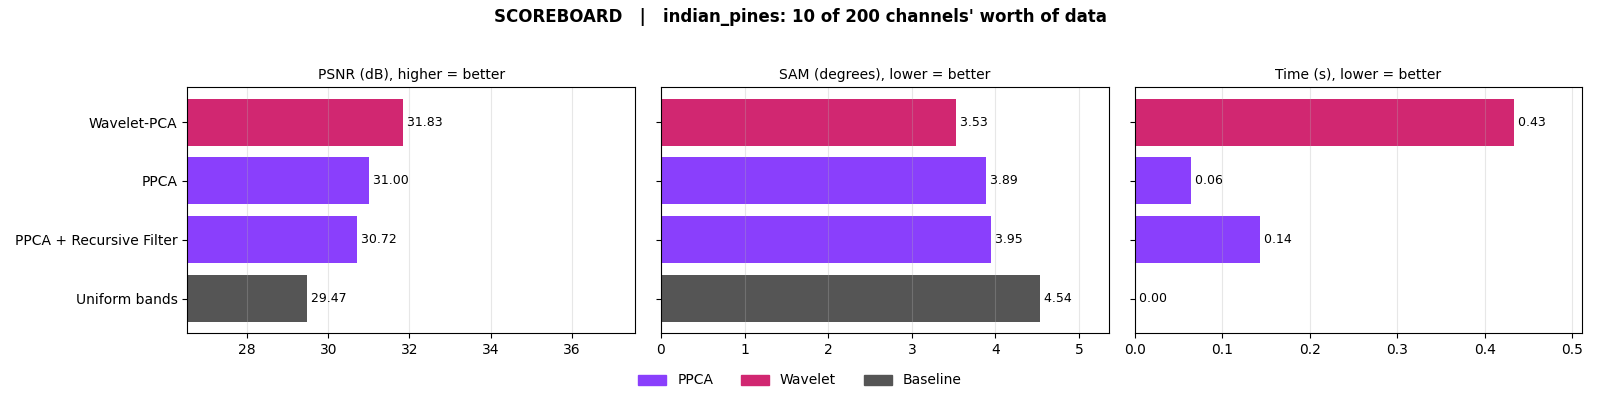
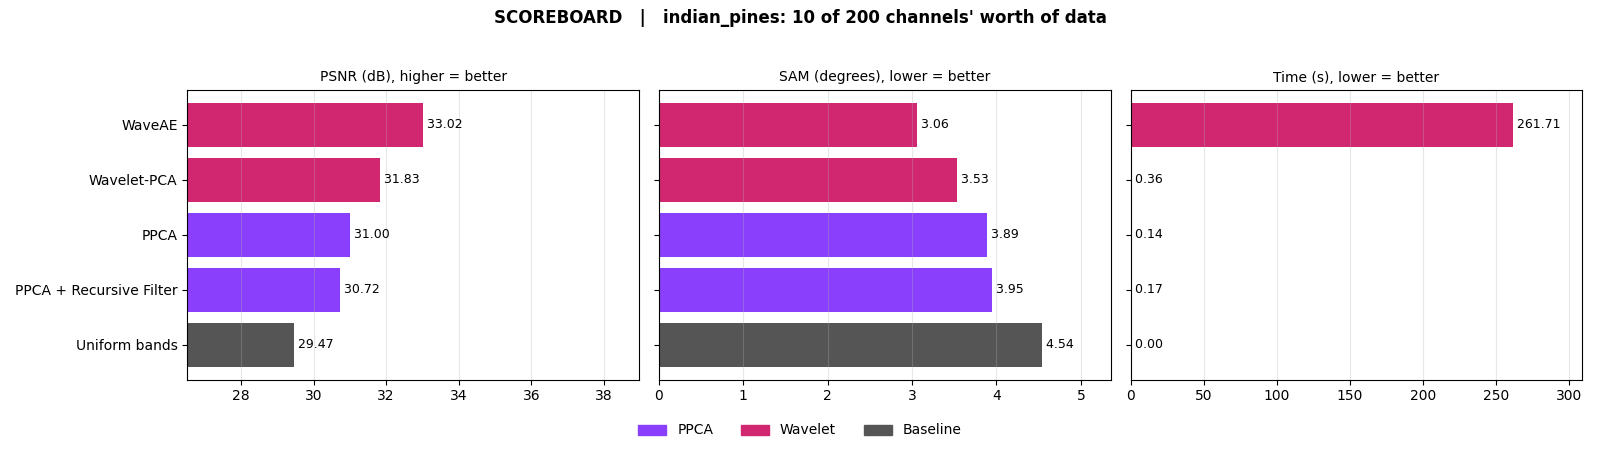
SSIM scores added

diff --git a/Abhishek/universal_pipeline.py b/Abhishek/universal_pipeline.py
@@ -36,6 +36,7 @@ import numpy as np
 import pandas as pd
 from matplotlib.colors import ListedColormap
 from scipy.io import loadmat
+from scipy.ndimage import uniform_filter
 from sklearn.cluster import KMeans, MiniBatchKMeans
 from sklearn.metrics import adjusted_rand_score, cohen_kappa_score, normalized_mutual_info_score
 from sklearn.svm import SVC
@@ -263,13 +264,45 @@ def sam_deg(a, b):
     return float(np.degrees(np.arccos(np.clip((a * b).sum(1) / den, -1, 1))).mean())
 
 
-def recon_metrics(X, Xs, recon_s, m, rng_val):
-    """variance explained (standardised), RMSE/PSNR in original units, SAM."""
+def ssim_cube(X, rec, hw, data_range, mask=None, win=7):
+    """Structural similarity (SSIM) between original X and rebuilt rec, both (n_pixels, C) tables, averaged over all
+    channels. Higher = better, 1 = identical. Same definition as skimage.metrics.structural_similarity (7 x 7 window,
+    K1 = 0.01, K2 = 0.03). data_range = the peak value, the same number PSNR uses (rng_val here, 1 after 0-1 scaling).
+    SSIM compares small windows of the picture, so the tables are put back into (H, W, C) images first.
+    mask = optional array of pixel indices: only those pixels are averaged (e.g. the test pixels)."""
+    h, w = hw
+    n_ch = X.shape[1]
+    a, b = X.reshape(h, w, n_ch), rec.reshape(h, w, n_ch)
+    cov_norm = win * win / (win * win - 1)                 # sample covariance, as in skimage
+    c1, c2 = (0.01 * data_range) ** 2, (0.03 * data_range) ** 2
+    keep = np.ones(h * w, bool)
+    if mask is not None:
+        keep[:] = False
+        keep[mask] = True
+    total, count = 0.0, 0
+    for s in range(0, n_ch, 32):                           # 32 channels at a time keeps memory small
+        x, y = a[:, :, s:s + 32].astype(np.float64), b[:, :, s:s + 32].astype(np.float64)
+        size = (win, win, 1)
+        ux, uy = uniform_filter(x, size=size), uniform_filter(y, size=size)
+        vx = cov_norm * (uniform_filter(x * x, size=size) - ux * ux)
+        vy = cov_norm * (uniform_filter(y * y, size=size) - uy * uy)
+        vxy = cov_norm * (uniform_filter(x * y, size=size) - ux * uy)
+        smap = ((2 * ux * uy + c1) * (2 * vxy + c2) / ((ux ** 2 + uy ** 2 + c1) * (vx + vy + c2))).reshape(h * w, -1)
+        total += smap[keep].sum()
+        count += smap[keep].size
+    return float(total / count)
+
+
+def recon_metrics(X, Xs, recon_s, m, rng_val, hw=None):
+    """variance explained (standardised), RMSE/PSNR in original units, SAM. Give hw = (H, W) to also get SSIM."""
     var_exp = 1 - float(((Xs - recon_s) ** 2).sum() / (Xs ** 2).sum())
     rec = recon_s * m["sd"] + m["mu"]
     rmse = float(np.sqrt(np.mean((X - rec) ** 2)))
-    return {"var_explained": var_exp, "rmse": rmse, "nrmse_pct": rmse / rng_val * 100,
-            "psnr_db": 20 * np.log10(rng_val / max(rmse, 1e-12)), "sam_deg": sam_deg(X, rec)}
+    out = {"var_explained": var_exp, "rmse": rmse, "nrmse_pct": rmse / rng_val * 100,
+           "psnr_db": 20 * np.log10(rng_val / max(rmse, 1e-12)), "sam_deg": sam_deg(X, rec)}
+    if hw is not None:
+        out["ssim"] = ssim_cube(X, rec, hw, rng_val)
+    return out
 
 
 def cluster_labels(F, n_clusters, seed=0):
@@ -466,13 +499,13 @@ def run(a, which):
     rows, kept = [], {}
 
     def evaluate(method, k, feats, recon_s):
-        r = {"method": method, "k": k, **recon_metrics(X, Xs, recon_s, m, rng_val)}
+        r = {"method": method, "k": k, **recon_metrics(X, Xs, recon_s, m, rng_val, (H, W))}
         cl = cluster_labels(feats, a.n_clusters)
         r["ARI"], r["NMI"] = adjusted_rand_score(ref_clusters, cl), normalized_mutual_info_score(ref_clusters, cl)
         if y is not None:
             r.update(classify_multi(feats, y, splits)[0])
         rows.append(r)
-        print(f"  {method:16s} k={k:<3d} var {r['var_explained'] * 100:6.2f}%  RMSE {r['rmse']:.4g}  SAM {r['sam_deg']:.2f}  "
+        print(f"  {method:16s} k={k:<3d} var {r['var_explained'] * 100:6.2f}%  RMSE {r['rmse']:.4g}  SAM {r['sam_deg']:.2f}  SSIM {r['ssim']:.4f}  "
               + (f"OA {r['OA']:.1f}%" if y is not None else f"ARI {r['ARI']:.3f}"))
 
     print("\n[compare] evaluating methods (this is the slow part)...")
@@ -480,7 +513,7 @@ def run(a, which):
     if y is not None:                                            # reference: all bands
         met, ref_recalls = classify_multi(Xs, y, splits)
         ref = {"method": "Full bands", "k": C, "var_explained": 1.0, "rmse": 0.0, "nrmse_pct": 0.0,
-               "psnr_db": np.inf, "sam_deg": 0.0, "ARI": 1.0, "NMI": 1.0, **met}
+               "psnr_db": np.inf, "sam_deg": 0.0, "ssim": 1.0, "ARI": 1.0, "NMI": 1.0, **met}
         rows.append(ref)
         print(f"  {'Full bands':16s} k={C:<3d} OA {ref['OA']:.1f}%  (upper reference)")
 
@@ -638,7 +671,7 @@ def rf_sweep(a, out, kept, m, X, Xs, rng_val, H, W, y, splits, ref_clusters):
     for ss, sc in combos:
         Zs = Z if ss == 0 else recursive_filter(Z, ss, sc, a.iters)
         flat = Zs.reshape(-1, k)
-        r = {"sigma_spatial": ss, "sigma_color": sc, **recon_metrics(X, Xs, ppca_reconstruct(m, flat, back, k), m, rng_val)}
+        r = {"sigma_spatial": ss, "sigma_color": sc, **recon_metrics(X, Xs, ppca_reconstruct(m, flat, back, k), m, rng_val, (H, W))}
         r["noise_reduced_pct"], r["edge_retention"] = spatial_stats(Z, Zs) if ss else (0.0, 1.0)
         r["ARI"] = adjusted_rand_score(ref_clusters, cluster_labels(flat * back, a.n_clusters))
         if y is not None:

diff --git a/Abhishek/wave_ae.py b/Abhishek/wave_ae.py
@@ -55,7 +55,7 @@ from scipy.io import loadmat
 
 HERE = Path(__file__).resolve().parent
 sys.path.insert(0, str(HERE))
-from universal_pipeline import build_splits, classify_multi, get_labels, sam_deg    # read-only helpers
+from universal_pipeline import build_splits, classify_multi, get_labels, sam_deg, ssim_cube    # read-only helpers
 
 RAICHUR_BANDS = ["B01", "B02", "B03", "B04", "B05", "B06", "B07", "B08", "B8A", "B09", "B11", "B12"]
 
@@ -227,14 +227,18 @@ def pca_fit(X):
 # ======================================================================
 # 5. metrics
 # ======================================================================
-def recon_metrics(X, Xs, rec_s, mu, sd, rng_val):
-    """Rebuild quality in standardised space (variance explained) and original units (RMSE, PSNR, SAM)."""
+def recon_metrics(X, Xs, rec_s, mu, sd, rng_val, hw=None):
+    """Rebuild quality in standardised space (variance explained) and original units (RMSE, PSNR, SAM).
+    Give hw = (H, W) to also get SSIM."""
     rec_s = rec_s.reshape(Xs.shape)
     rec = rec_s * sd + mu
     rmse = float(np.sqrt(np.mean((X - rec) ** 2)))
-    return {"var_explained": 1 - float(((Xs - rec_s) ** 2).sum() / ((Xs - Xs.mean(0)) ** 2).sum()), "rmse": rmse,
-            "nrmse_pct": rmse / rng_val * 100, "psnr_db": 20 * np.log10(rng_val / max(rmse, 1e-12)),
-            "sam_deg": sam_deg(X, rec)}
+    out = {"var_explained": 1 - float(((Xs - rec_s) ** 2).sum() / ((Xs - Xs.mean(0)) ** 2).sum()), "rmse": rmse,
+           "nrmse_pct": rmse / rng_val * 100, "psnr_db": 20 * np.log10(rng_val / max(rmse, 1e-12)),
+           "sam_deg": sam_deg(X, rec)}
+    if hw is not None:
+        out["ssim"] = ssim_cube(X, rec, hw, rng_val)
+    return out
 
 
 # ======================================================================
@@ -430,11 +434,11 @@ def main():
         mb = (lat_vals + side_vals) * 4 / 1e6                                 # float32 values, latent + side information
         r = {"method": method, "k_eq": k_eq, "channels_sent": sent, "resolution": res, "compression_x": round(C / k_eq, 1),
              "transmit_MB": round(mb, 3), "effective_compression_x": round(cube_MB / mb, 1),
-             "encoder_macs_per_pixel": int(macs), **recon_metrics(X, Xs, rec_s, mu, sd, rng_val), **(extra or {})}
+             "encoder_macs_per_pixel": int(macs), **recon_metrics(X, Xs, rec_s, mu, sd, rng_val, (H, W)), **(extra or {})}
         if y is not None:
             r.update(classify_multi(feats.reshape(H * W, -1), y, splits)[0])
         rows.append(r)
-        print(f"    {method:34s} var {r['var_explained'] * 100:6.2f}%  NRMSE {r['nrmse_pct']:5.2f}%  SAM {r['sam_deg']:5.2f}  "
+        print(f"    {method:34s} var {r['var_explained'] * 100:6.2f}%  NRMSE {r['nrmse_pct']:5.2f}%  SAM {r['sam_deg']:5.2f}  SSIM {r['ssim']:.4f}  "
               f"eff.compr {r['effective_compression_x']:6.1f}x" + (f"  OA {r['OA']:5.1f}%" if y is not None else ""))
 
     for k_eq in ks:
@@ -503,7 +507,7 @@ def main():
     (out / "report.txt").write_text(f"{header}\n{df.to_string(index=False, float_format=lambda v: f'{v:.4g}')}{caveat}\n", encoding="utf-8")
     print(f"\n[saved] {out}\n  metrics.csv, report.txt, fig1_wavelet_and_latent.png, fig2_reconstruction.png, fig3_metrics_vs_budget.png,"
           f"\n  waveae_latent_k*.npy (the compressed data), waveae_k*.pt (trained weights)")
-    print(df[["method", "k_eq", "channels_sent", "compression_x", "effective_compression_x", "var_explained", "nrmse_pct", "sam_deg",
+    print(df[["method", "k_eq", "channels_sent", "compression_x", "effective_compression_x", "var_explained", "nrmse_pct", "sam_deg", "ssim",
               "encoder_macs_per_pixel"] + (["OA"] if y is not None else [])].round(3).to_string(index=False))
 
 

diff --git a/Abhishek/show_abhishek.py b/Abhishek/show_abhishek.py
@@ -44,7 +44,7 @@ import matplotlib
 _BACKEND = matplotlib.get_backend()   # the window backend; Abhishek's files switch to 'Agg' (no windows) when imported
 import numpy as np
 
-from universal_pipeline import ppca_fit, ppca_reconstruct, ppca_scores       # Abhishek's PPCA
+from universal_pipeline import ppca_fit, ppca_reconstruct, ppca_scores, ssim_cube       # Abhishek's PPCA (+ SSIM)
 from ppca_rf_pipeline import recursive_filter                                  # Abhishek's recursive filter
 
 # ======================================================================
@@ -200,8 +200,9 @@ def add(name, family, rebuilt01, sent, secs, note):
     rebuilt01 = np.clip(rebuilt01.reshape(-1, C), 0, 1)
     R[name] = {"family": family, "rebuilt": rebuilt01, "sent": sent, "time": secs, "note": note,
                "psnr": psnr(p01[test], rebuilt01[test]), "sam": sam_degrees(p01[test], rebuilt01[test]),
+               "ssim": ssim_cube(p01, rebuilt01, (H, W), 1.0, test),
                "error": np.abs(p01 - rebuilt01).mean(axis=1).reshape(H, W)}
-    print(f"  {name:28s} PSNR {R[name]['psnr']:6.2f} dB   SAM {R[name]['sam']:5.2f}°   {secs:6.2f} s")
+    print(f"  {name:28s} PSNR {R[name]['psnr']:6.2f} dB   SSIM {R[name]['ssim']:.4f}   SAM {R[name]['sam']:5.2f}°   {secs:6.2f} s")
 
 
 # --- PPCA family (Abhishek's own functions) ---
@@ -308,10 +309,10 @@ def screen(rows, title, filename, note):
 
 
 def table(title, rows):
-    print(f"\n{title}\n  {'Method':28s} {'PSNR dB':>8s} {'SAM °':>7s} {'Time s':>7s}  Sent")
+    print(f"\n{title}\n  {'Method':28s} {'PSNR dB':>8s} {'SSIM':>7s} {'SAM °':>7s} {'Time s':>7s}  Sent")
     for n in rows:
         r = R[n]
-        print(f"  {n:28s} {r['psnr']:8.2f} {r['sam']:7.2f} {r['time']:7.2f}  {r['note']}")
+        print(f"  {n:28s} {r['psnr']:8.2f} {r['ssim']:7.4f} {r['sam']:7.2f} {r['time']:7.2f}  {r['note']}")
 
 
 by_psnr = lambda ns: sorted(ns, key=lambda n: -R[n]["psnr"])
@@ -359,7 +360,7 @@ if args.only in (None, "final"):
 import csv                                                                            # noqa: E402
 with open(OUT / "scores.csv", "w", newline="") as f:
     w = csv.writer(f)
-    w.writerow(["Method", "Family", "K", "PSNR", "SAM", "Time (s)", "Sent"])
+    w.writerow(["Method", "Family", "K", "PSNR", "SSIM", "SAM", "Time (s)", "Sent"])
     for n in by_psnr(list(R)):
-        w.writerow([n, R[n]["family"], K, f"{R[n]['psnr']:.4f}", f"{R[n]['sam']:.4f}", f"{R[n]['time']:.3f}", R[n]["note"]])
+        w.writerow([n, R[n]["family"], K, f"{R[n]['psnr']:.4f}", f"{R[n]['ssim']:.4f}", f"{R[n]['sam']:.4f}", f"{R[n]['time']:.3f}", R[n]["note"]])
 print(f"\nSaved in {OUT}/ : 1_ppca.png, 2_wavelet.png, 3_final.png, 4_scoreboard.png, scores.csv")
